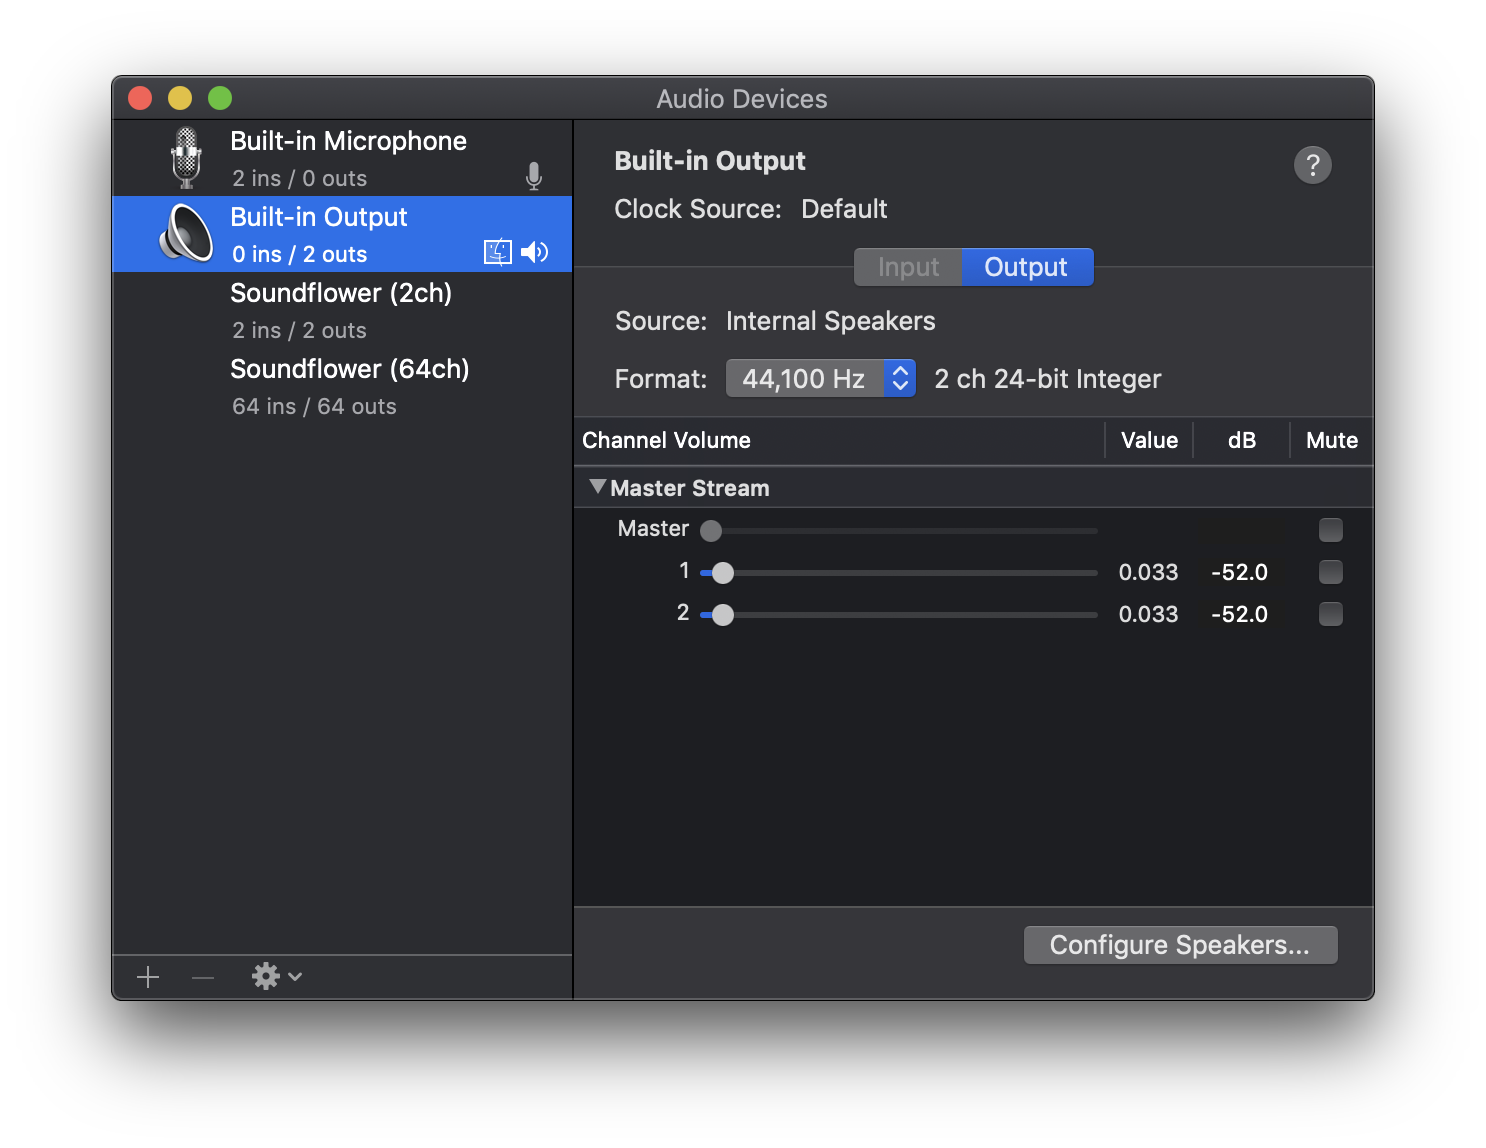
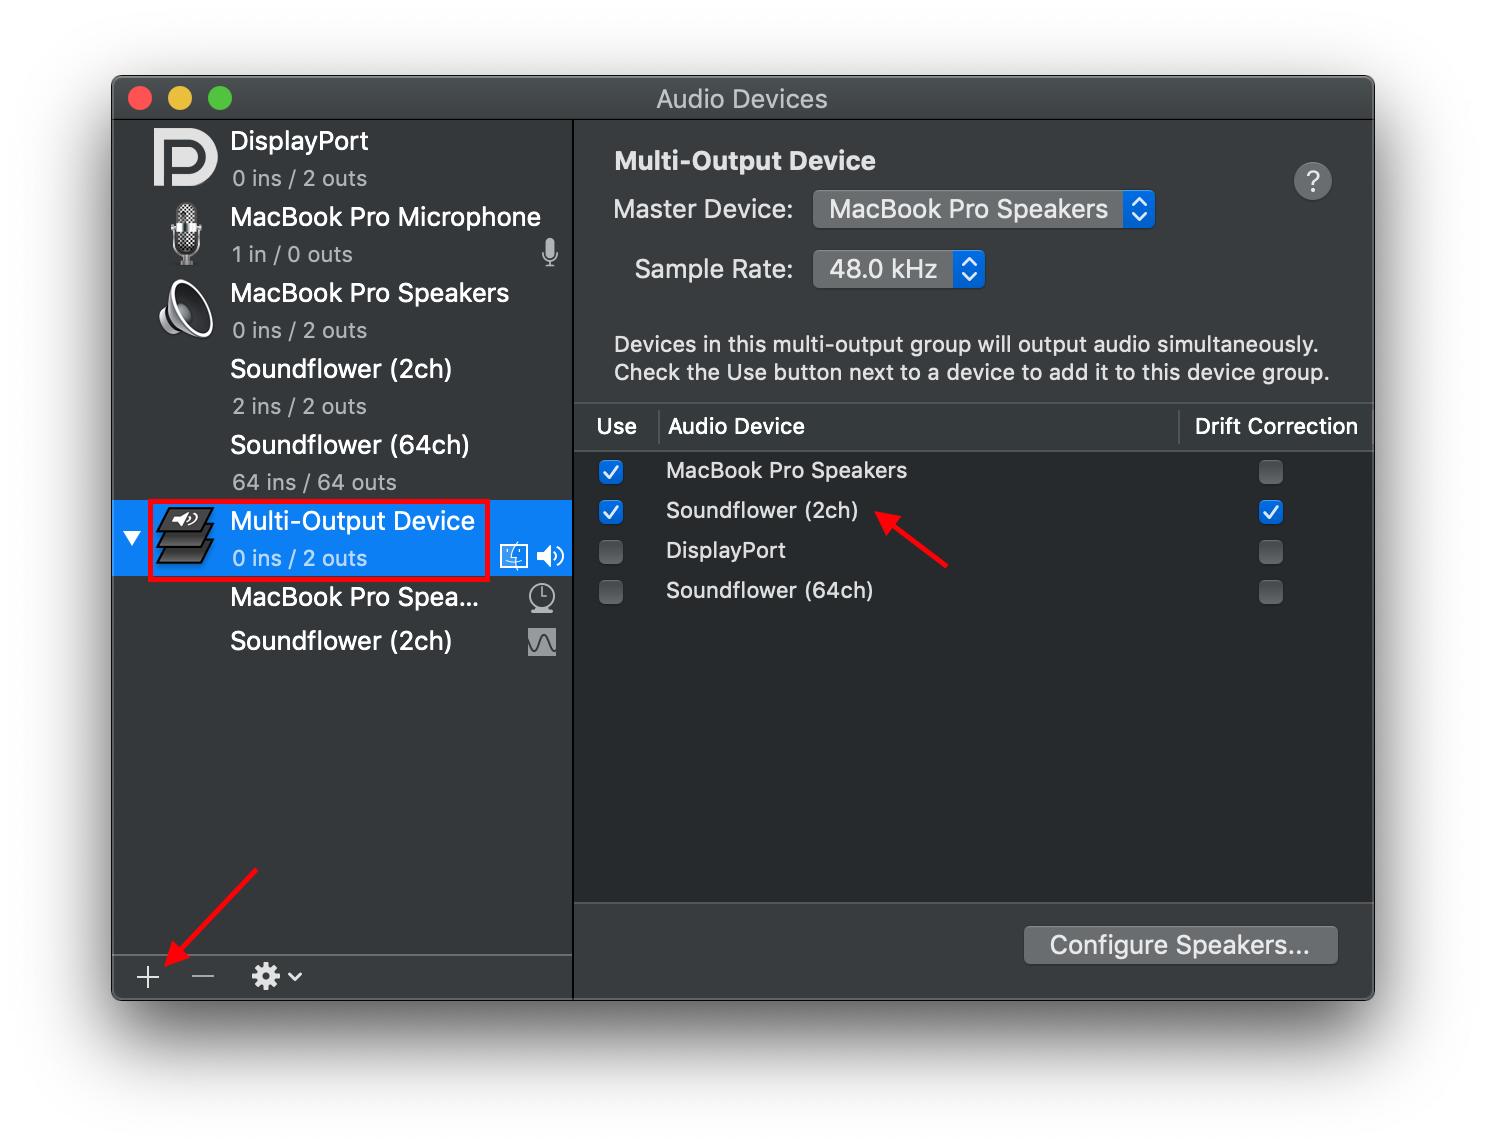
Update

diff --git a/Posts/Tips/Livestreaming_on_macOS/README.md b/Posts/Tips/Livestreaming_on_macOS/README.md
@@ -1,8 +1,9 @@
 # Tips - 在 macOS 上进行直播推流
 
-| Platform |
-|:-----:|
-| macOS 10.14 beta 4 |
+| Date | Platform | Software |
+|:-----:|:-----:|:-----:|
+| 2018.07.22 | macOS 10.14 beta 4 | OBS Studio, Soundflower
+| 2019.03.30 | macOS 10.14.4 | - |
 
 > 由于更换了电脑，上次好不容易折腾的配置也都无从参考，这次尽力把整个配置过程，以及音频输入输出的部分完善。直播推流使用了 OBS Studio，直播平台为 Bilibili。
 
@@ -12,8 +13,7 @@
 
 ![OBS Studio](1.png)
 
-- 安装 OBS
-    - 这里使用了「Homebrew」，当然也可以直接在官网下载
+- 使用「Homebrew」安装 OBS
 
 ```
 brew cask install obs
@@ -21,31 +21,54 @@ brew cask install obs
 
 ![Install with brew cask](2.png)
 
-- 安装期间可以在 Bilibili 申请开通直播，后面配置需要 RTMP 地址以及直播码
+- 安装期间可以在 Bilibili 申请开通直播，并获取需要的 RTMP 地址以及直播码
 
 ![Bilibili 开播设置](3.png)
 
-- 安装之后便可以在 Launchpad 中打开 OBS，并打开「Preference」 - 「流」
+- 打开「OBS」-「Preference」-「流」
 
 ![流](4.png)
 
-- 在 URL 和流名称填写上述 RTMP 地址以及直播码
-- 关闭 Preference 回到主界面为默认的场景添加来源，常用的是显示捕获（即完全把自己能看到推流出去）以及窗口捕获（即只把选中的窗口推流出去）
+- 在「URL」和「流名称」分别填写 Bilibili 提供的 RTMP 地址以及直播码
+- 回到主界面为默认的场景添加来源，常用的是「显示捕获」（即完全把自己能看到推流出去）以及「窗口捕获」（即只把选中的窗口推流出去）
 - 点击「开始推流」即可开始直播
 
 ![OBS](5.png)
 
 ### Audio
 
-- 下载并安装 Soundflower
+- 使用「Homebrew」安装 Soundflower
 
-#### 将 Mac 播放的音频输出 OBS & 耳机
+```
+brew cask install soundflower
+```
 
-- 打开系统自带的 Audio MIDI Setup.app
+> ⚠ 注意：
+> 
+> 在安装过程中，可能出现需要授权而导致安装错误，此时需要手动允许并重新安装即可。
+
+#### 将 Mac 播放的音频外放 & 输出 OBS
 
 ![Audio MIDI Setup.app](6.png)
 
-#### 将 Mac 麦克风输出 OBS
+- 打开系统自带的「Audio MIDI Setup.app」
+- 选择左下角的「+」-「Create Multi-Output Device」
+- 勾选「Soundflower (2ch)」和「MacBook Pro Speakers」
+
+![Sound](7.png)
+
+- 打开系统设置「Preference」-「Sound」-「Output」
+- 切换为「Multi-Output Device」
+
+> ⚠ 注意：
+> 
+> 此时无法再调节音量大小，只能在各软件内部设置。
+
+![OBS](8.png)
+
+- 在 OBS 的「Preference」-「音频」中，将「桌面音频设备」和「麦克风/辅助音频设备」设置为「Soundflower (2ch)」，确定即可
+
+#### 将 Mac 麦克风采集输出 OBS
 
 - Waiting for update.
 
@@ -53,3 +76,5 @@ brew cask install obs
 
 - [OBS Studio](https://obsproject.com)
 - [Soundflower](https://soundflower.en.softonic.com/mac)
+- [如何使用 OBS 軟體在 Mac 電腦做桌面直播？- LIVEhouse.in](https://event.livehouse.in/zh-TW/tutorial/obs-mac.html)
+- [Mac 上利用 OBS 在 B 站直播 iPhone 上的王者荣耀 - 秋风木叶](http://blog.ykqmain.com/obs/)
